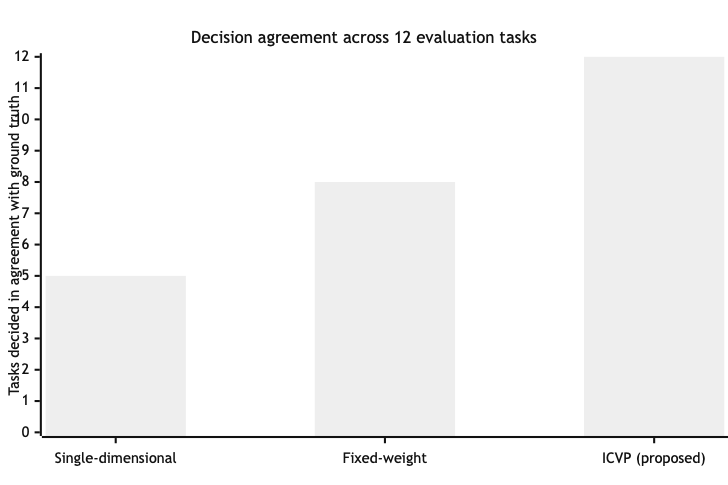
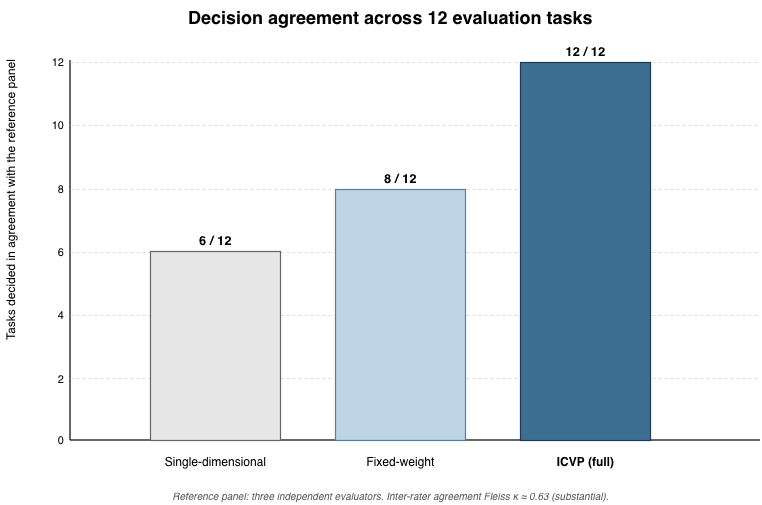
:zap: updated results

diff --git a/thesis/content/07-evaluation.tex b/thesis/content/07-evaluation.tex
@@ -63,7 +63,14 @@ All three configurations were given access to the same set of underlying data so
 
 \subsubsection{Decision quality}
 
-Table \ref{tab:nft-decision} reports decision agreement and component score deviation for the four NFT tasks. The reference decisions across the four intents are \textit{defer} for long-term holding, \textit{decline} for speculative trading, \textit{proceed} for collateralisation, and \textit{proceed} for functional access. Reference $A/D/U$ medians are $(6.0, 6.5, 5.0)$, $(7.0, 3.0, 3.0)$, $(7.0, 6.0, 7.0)$, and $(6.5, 7.5, 8.0)$ respectively, reflecting how the same asset is interpreted differently under each intent. The panel split 2:1 on long-term holding, with two evaluators deferring pending evidence that the floor is supported by holder fundamentals rather than the brand-licensing narrative, and one evaluator voting \textit{proceed} on the brand-utility thesis.
+Table \ref{tab:nft-decision} reports decision agreement and component score deviation for the four NFT tasks. The reference decisions across the four intents are \textit{defer} for long-term holding, \textit{decline} for speculative trading, \textit{proceed} for collateralisation, and \textit{proceed} for functional access. Reference $A/D/U$ medians are $(6.0, 6.5, 5.0)$, $(7.0, 3.0, 3.0)$, $(7.0, 6.0, 7.0)$, and $(6.5, 7.5, 8.0)$ respectively, reflecting how the same asset is interpreted differently under each intent. Figure \ref{fig:nft-adu-heatmap} makes this load-bearing claim visible: the same Pudgy Penguin produces a different $A/D/U$ signature under each intent, with speculative trading collapsing Durability and Utility and functional access elevating them. The panel split 2:1 on long-term holding, with two evaluators deferring pending evidence that the floor is supported by holder fundamentals rather than the brand-licensing narrative, and one evaluator voting \textit{proceed} on the brand-utility thesis.
+
+\begin{figure}[h]
+    \centering
+    \includegraphics[width=0.85\columnwidth,height=0.45\textheight,keepaspectratio]{images/evaluation-adu-heatmap.png}
+    \caption[Reference $A/D/U$ medians for one NFT under four intents]{Reference $A/D/U$ medians for Pudgy Penguin \#1419 under the four NFT intents. The same asset produces a different valuation signature under each intent, illustrating that intent reshapes what Availability, Durability, and Utility \emph{mean}, not only their relative weights.}
+    \label{fig:nft-adu-heatmap}
+\end{figure}
 
 \begin{table}[h]
 \centering
@@ -168,9 +175,18 @@ The results are consistent with the empirical claim made under RQ3. Across the t
 
 \begin{figure}[H]
     \centering
-    \includegraphics[width=0.75\columnwidth,height=0.72\textheight,keepaspectratio]{images/evaluation-headline.png}
+    \includegraphics[width=0.75\columnwidth,height=0.55\textheight,keepaspectratio]{images/evaluation-headline.png}
     \caption{Decision agreement with the reference panel across the twelve evaluation tasks.}
     \label{fig:evaluation-headline}
+\end{figure}
+
+Figure \ref{fig:evaluation-per-domain} disaggregates the headline by domain. The ICVP advantage is not a single-domain artefact: the full configuration matches the reference panel on all four tasks in each of the NFT, stETH, and Polkadot OpenGov domains, while both baselines lose more tasks where the intent reshapes which evidence matters and what the valuation dimensions mean. The single-dimensional baseline performs worst on Polkadot OpenGov, where no single visible signal substitutes for public-resource stewardship reasoning, and the fixed-weight baseline narrows the gap on stETH where its generic profile happens to align with three of the four intents.
+
+\begin{figure}[H]
+    \centering
+    \includegraphics[width=0.85\columnwidth,height=0.5\textheight,keepaspectratio]{images/evaluation-per-domain.png}
+    \caption[Decision agreement by domain]{Decision agreement by domain (4 tasks per domain). The full ICVP configuration matches the reference panel in every domain; the baselines lose tasks asymmetrically depending on how strongly intent reshapes the evidence and dimension semantics.}
+    \label{fig:evaluation-per-domain}
 \end{figure}
 
 The fixed-weight baseline narrows the gap on tasks where the dominant intent is close to the implicit weights of the fixed profile, but it widens again on tasks where the intent reshapes which evidence matters and what the valuation dimensions mean. This pattern is consistent with the conceptual argument of Chapter \ref{sec:design}. Intent does not only change how much Availability, Durability, and Utility matter. It changes what counts as Availability, Durability, and Utility, and the fixed-weight baseline does not represent that change. The paired pattern holds across decision quality, false-proceed rate, evidence relevance, mapping quality, trace completeness, and robustness conditions, so the evaluation supports the claim that ICVP is the better approach among the tested alternatives for this benchmark. The evaluation is not a proof that ICVP is the only adequate model, and we do not claim that the agentic implementation is correct in any stronger sense than the trace-gated authorisation property of Section \ref{sec:proof-targets} guarantees. The results indicate, however, that intent-conditioned projection and dimension instantiation, made auditable through valuation traces and validated by a deterministic check, may improve decision quality, evidence relevance, and auditability relative to the two reduced baselines on this benchmark.